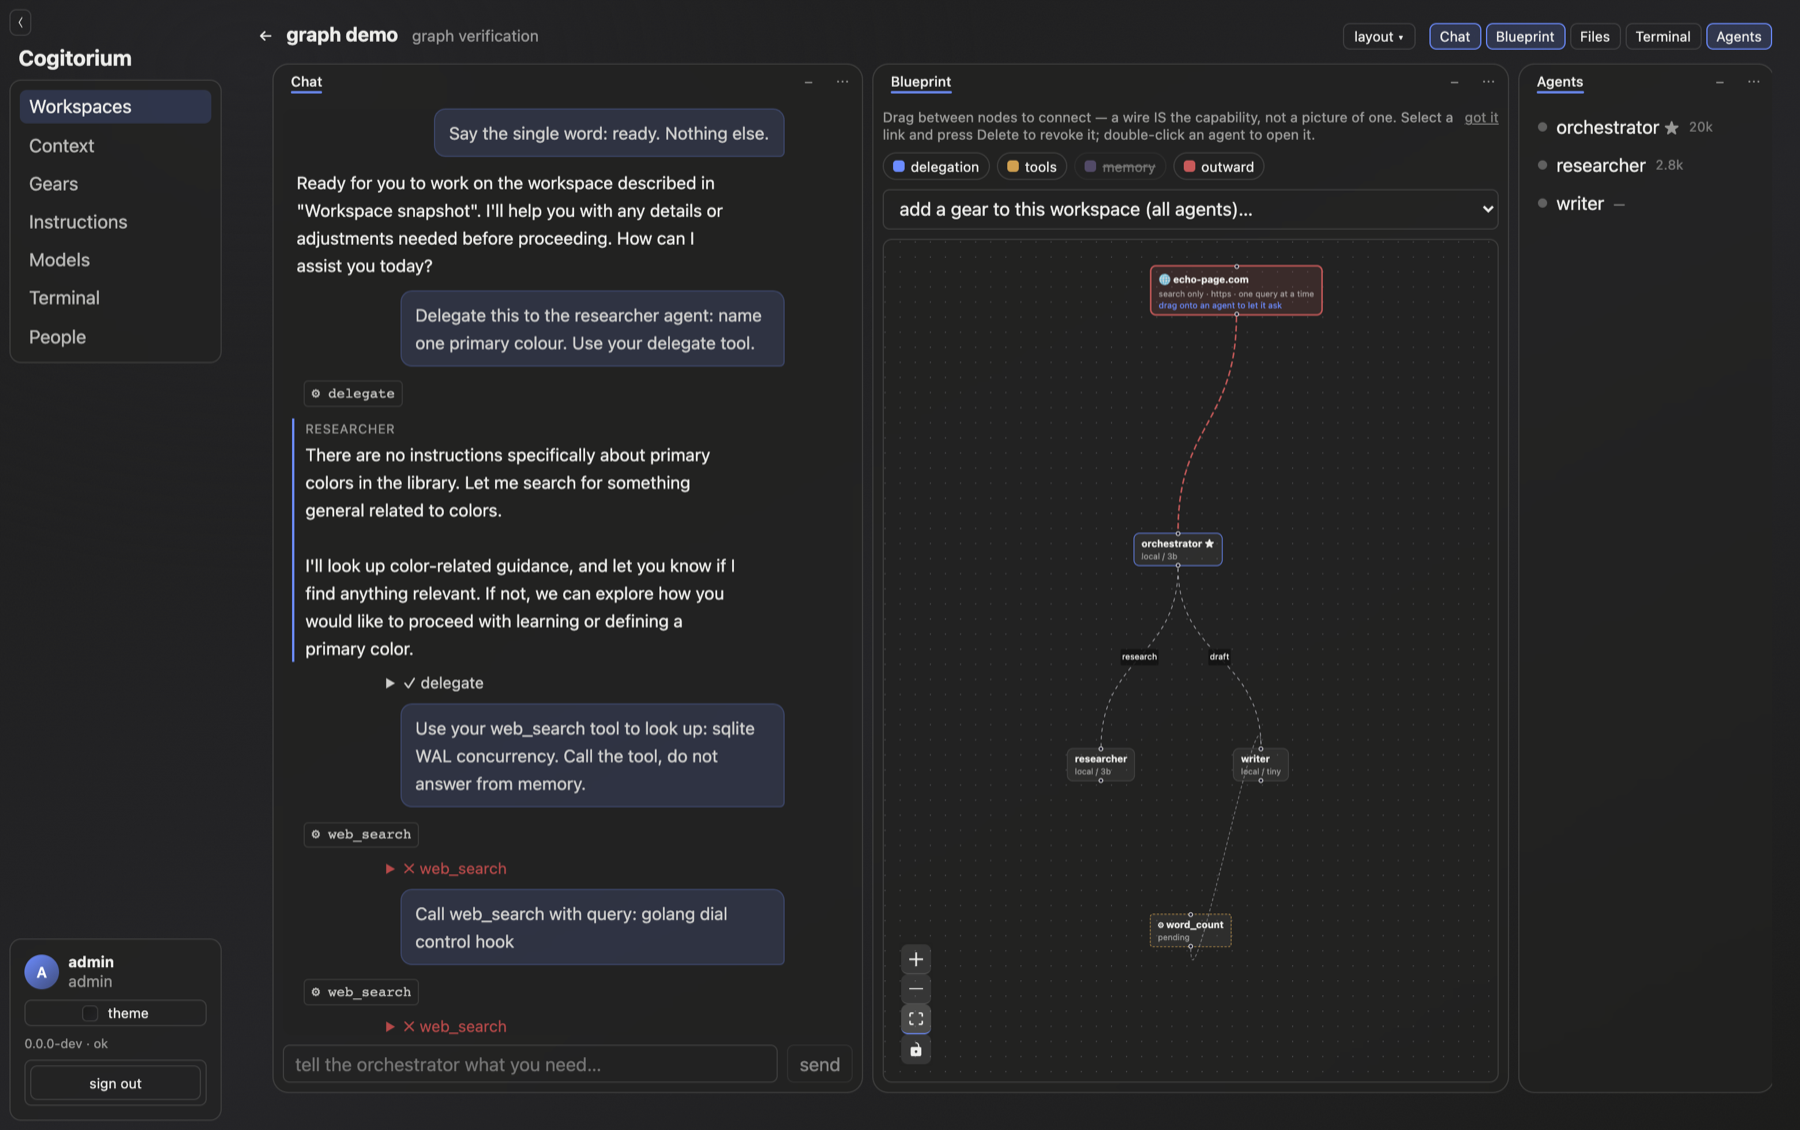
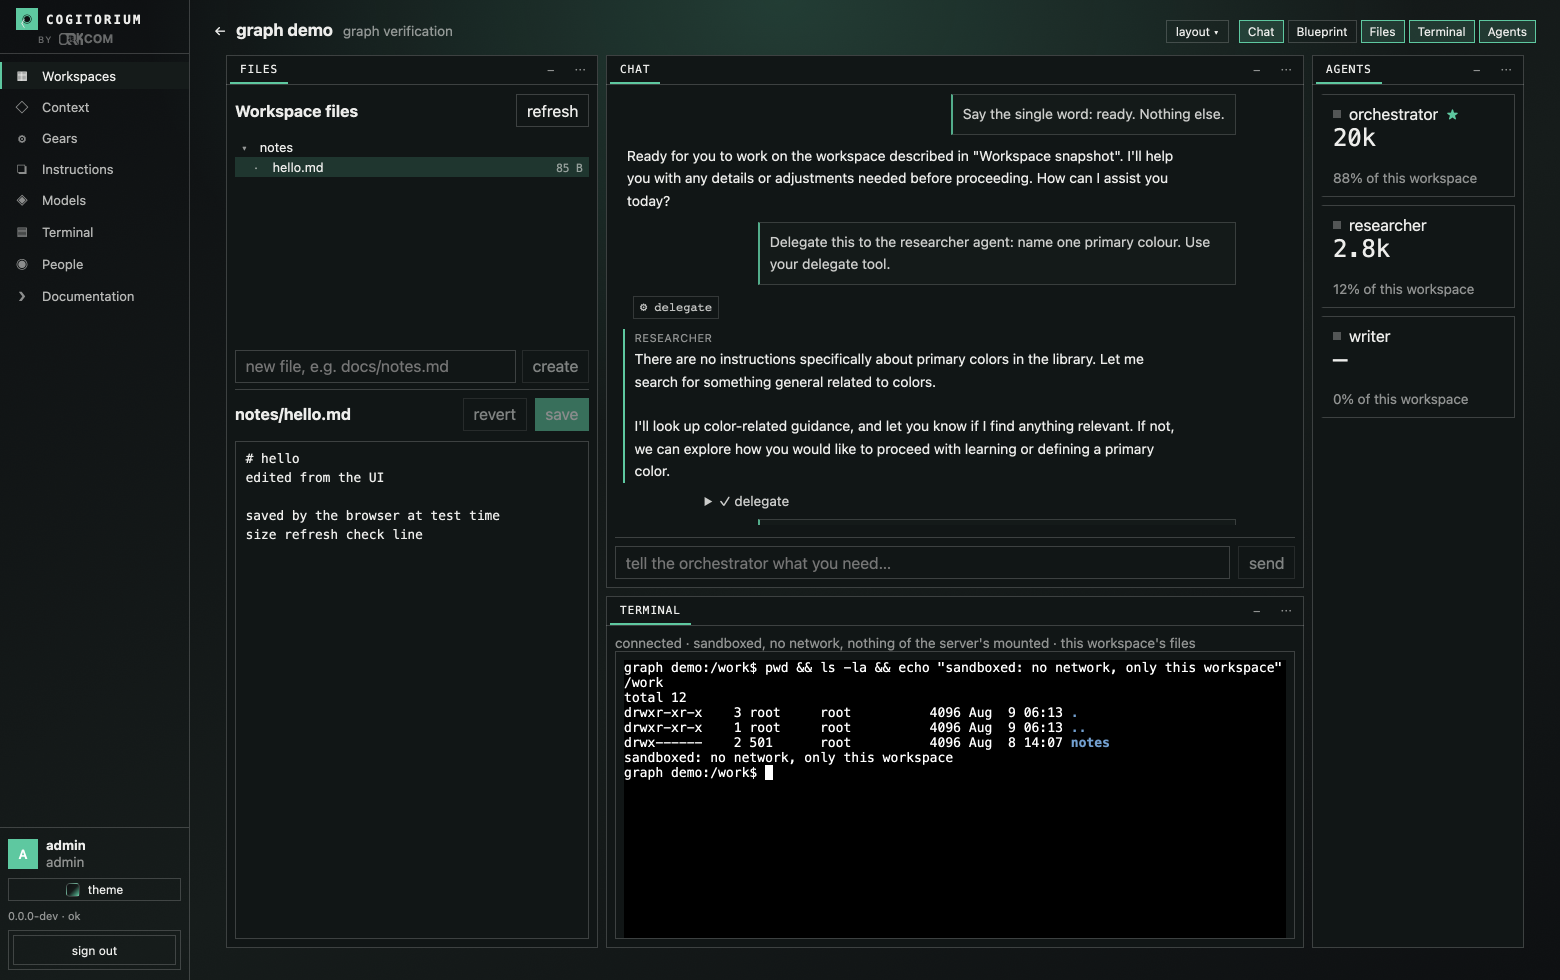
Re-shoot the documentation against the current design, and say what the appearance system does
Every screenshot in the README and the docs site showed the interface before
the two looks existed. A guide whose pictures do not match the product is worse
than one with no pictures: the reader trusts the picture and then cannot find
the thing.

All eleven are re-shot. Three are new and cover what was previously only
claimed in prose: the second look in its own arrangement, the palette applied
to the first look, and an operator's own backdrop behind the panels. Two more
show what was never shown at all — panels pulled off the grid into windows,
and the build arrangement with a file actually open and a shell actually
running. 08-solid is gone; solid-versus-glass is a slider in the appearance
shot, not a screenshot of its own.

The prose now describes the looks as what they are — whole designs, each with
its own ground, accent, surface treatment and arrangement — rather than a
theme toggle, and states that the palette is independent of both, that a look
brings its arrangement with it, and that light mode carries the palette as a
tint rather than as the ground.

Each shot runs in its own browser context. The bench seeds a new tab from
localStorage, so reusing one page let one shot's saved arrangement leak into
the next: the floating-panels shot came back with everything docked, showing
the previous shot's layout.

Captured at 2x for clean text sampling and then reduced to the width the docs
page actually displays. 22.8 MB of assets became 6.2 MB; a docs page nobody
[…]

diff --git a/docs/_layouts/default.html b/docs/_layouts/default.html
@@ -34,6 +34,8 @@
         <a href="#gears--tools-your-agents-build">Gears</a>
         <a href="#context-and-memory">Context &amp; memory</a>
         <a href="#the-interface">The interface</a>
+        <a href="#looks">Looks</a>
+        <a href="#palette">Palette</a>
 
         <span class="group">Running it</span>
         <a href="#teams-and-access">Teams &amp; access</a>

diff --git a/docs/index.md b/docs/index.md
@@ -198,22 +198,65 @@ the agent inspector.
 - **Maximize** with `⌘↵`, toggle the sidebar with `⌘B`, the bottom dock with
   `⌘J`.
 
-Layouts persist per browser tab, with a seed for new tabs. Four arrangements
-ship ready-made — Converse, Build, Wire up, Watch one agent — and you can save
-your own. `?layout=reset` in the URL recovers from anything.
+Layouts persist per browser tab, with a seed for new tabs. Five arrangements
+ship ready-made — Converse, Build, Wire up, Canvas-first, Watch one agent — and
+you can save your own. `?layout=reset` in the URL recovers from anything.
 
 ![Files, chat and a terminal](assets/03-build-layout.png)
 
-**Appearance.** One to three colours make the background gradient; dials control
-grain, tint, and where the light falls, and the light can drift slowly around
-the screen. Panels are frosted glass or solid fill — solid genuinely switches
-the compositing off rather than blurring by zero. You can put your own picture
-or looping clip behind everything, with a scrim dial so text stays readable.
+![The conversation and the file tree as floating windows](assets/11-floats.png)
+
+### Looks
+
+The interface has two, and they are whole designs rather than a density switch:
+each carries its own ground, accent, surface treatment and arrangement.
+
+**Instrument** — a bench instrument. Hairlines carry every boundary, nothing is
+rounded, panel names are stencilled in monospace, and every figure is monospaced
+so a column of token spends lines up down the panel. The conversation stays in
+the centre. Every screenshot above is Instrument.
+
+**Canvas-first** — the wiring graph becomes the application. The menu shrinks to
+a rail of glyphs, the ground becomes a drafting grid, and panels float over it
+on shadows instead of dividing it. This deliberately contradicts the rule that
+the orchestrator chat is the way in, which is why it is a choice and not the
+default.
+
+![Canvas-first](assets/08-canvas-first.png)
+
+Choosing a look applies its arrangement too — picking Canvas-first and then
+hunting for a matching layout preset would be two decisions for one intention.
+A plain reload never overwrites an arrangement you built by hand.
+
+### Palette
+
+Independent of the look, so either one can wear any of it.
+
+One to three colours make the background gradient, and when there is a third it
+becomes the accent. Dials control grain, tint, and where the light falls, and
+the light can drift slowly around the screen. Panels are frosted glass or solid
+fill — solid genuinely switches the compositing off rather than blurring by
+zero — with the blur and the fill darkness on their own sliders. Five palettes
+ship ready-made: Graphite, Lime, Cobalt, Ember, Moss.
+
+![The same workspace in a warmer palette](assets/09-palette.png)
 
 ![The appearance dialog](assets/04-appearance.png)
 
-Everything here is stored on your device. Nothing about your appearance settings
-leaves the machine.
+You can put your own picture or looping clip behind everything, with a scrim
+dial so text stays readable over whatever you chose.
+
+![An operator's own backdrop](assets/10-backdrop.png)
+
+Light and dark both work and follow the system unless you pin one. In light mode
+the palette becomes a tint carried into a light ground rather than the ground
+itself, so your colours choose the character of the room without deciding
+whether it is lit.
+
+Everything here is stored on your device, and the interface fetches nothing at
+runtime: the grain texture, the maker's mark and your own backdrop are all
+carried inside the page. Nothing about your appearance settings leaves the
+machine.
 
 ---
 

diff --git a/README.md b/README.md
@@ -94,22 +94,52 @@ Add a model under **Models**, then press **+ New workspace**.
 
 Panels, not tabs. Chat, blueprint, files, editor, terminal and the agent
 inspector are panels on a grid: put one at any edge, slide it out over the
-centre, float it, or hide it. Arrangements can be saved, and four are
+centre, float it, or hide it. Arrangements can be saved, and five are
 ready-made.
 
 ![Files, chat and a terminal, arranged for building](docs/assets/03-build-layout.png)
+
+Nothing has to be docked at all. Any panel can be pulled off the grid into a
+window you move, resize, roll up or close.
+
+![The conversation and the file tree as floating windows](docs/assets/11-floats.png)
 
 An agent's card shows what it is, what it knows, what it may call, and what it
 has spent.
 
 ![The agent inspector beside the conversation](docs/assets/05-agent.png)
 
-The palette is yours: up to three colours make the gradient, with dials for
-grain, tint and where the light falls — or set your own picture or clip behind
-everything. Panels can be frosted glass or plain solid fill.
+### Two looks, and a palette under them
+
+Pick the room you want to work in. **Instrument** is a bench instrument —
+hairlines instead of cards, nothing rounded, every figure in monospace so a
+column of spends lines up, and the conversation in the centre. Everything above
+this line is Instrument.
+
+**Canvas-first** turns it inside out: the wiring graph becomes the application,
+the menu shrinks to a rail of glyphs, and the panels float over a drafting grid.
+It contradicts the rule that the chat is the way in, which is why it is a choice
+and never the default. Choosing a look brings its arrangement with it.
+
+![Canvas-first: the graph takes the room](docs/assets/08-canvas-first.png)
+
+The palette is independent of both. Up to three colours make the gradient — the
+third is the accent — with dials for grain, tint, and where the light falls,
+plus a drift that walks it slowly around the screen. Panels are frosted glass or
+plain solid fill, with the blur and the darkness on sliders. Five palettes ship
+ready-made; the picture below is Instrument wearing one of them.
+
+![The same workspace in a warmer palette](docs/assets/09-palette.png)
 
 ![The appearance dialog](docs/assets/04-appearance.png)
-![The same workspace with solid panels](docs/assets/08-solid.png)
+
+Or put your own picture or looping clip behind the whole thing, with a scrim
+dial that buys back as much legibility as it needs.
+
+![An operator's own backdrop behind the panels](docs/assets/10-backdrop.png)
+
+Light and dark both work, and either follows the system by default. Nothing here
+is fetched: the grain, the mark and your backdrop are all carried in the page.
 
 Admins get a map of who can reach what — the same relationships the permission
 checks use, drawn rather than pieced together from three tables.
